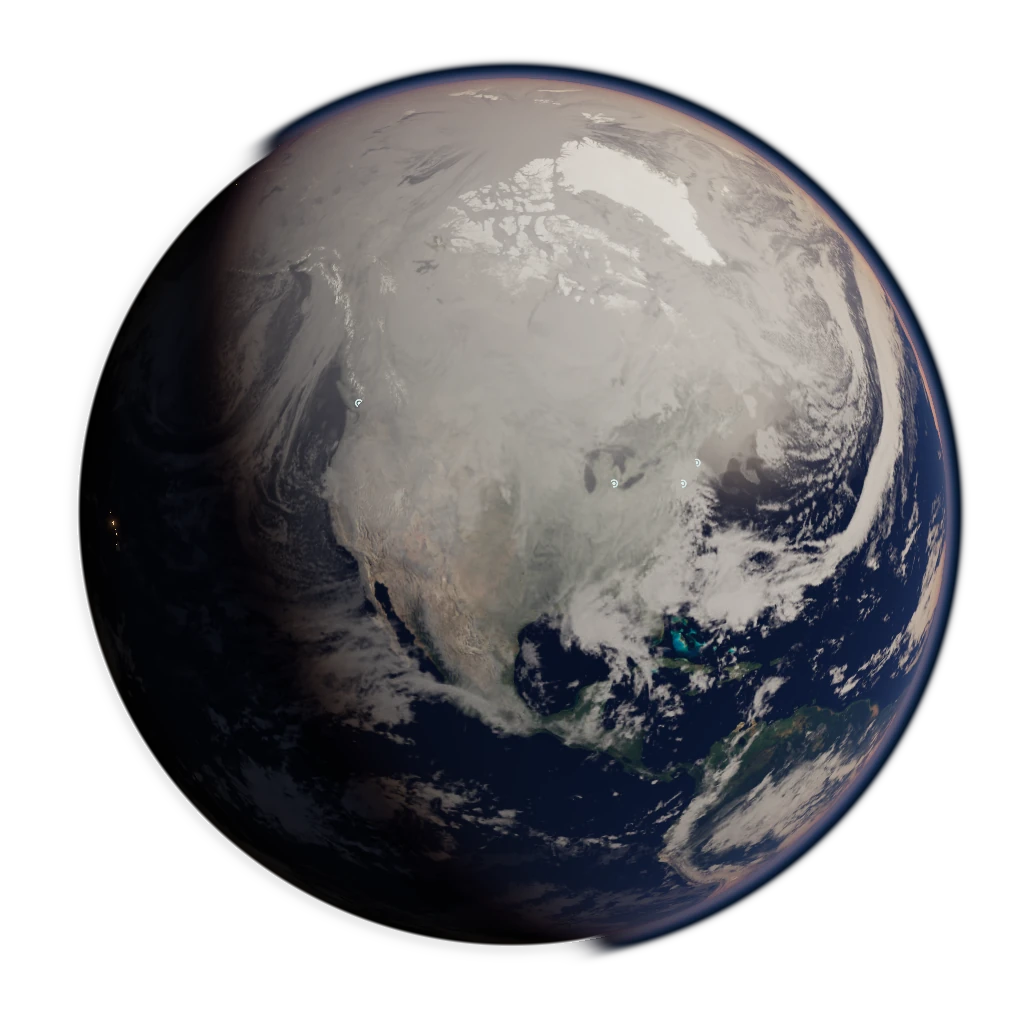
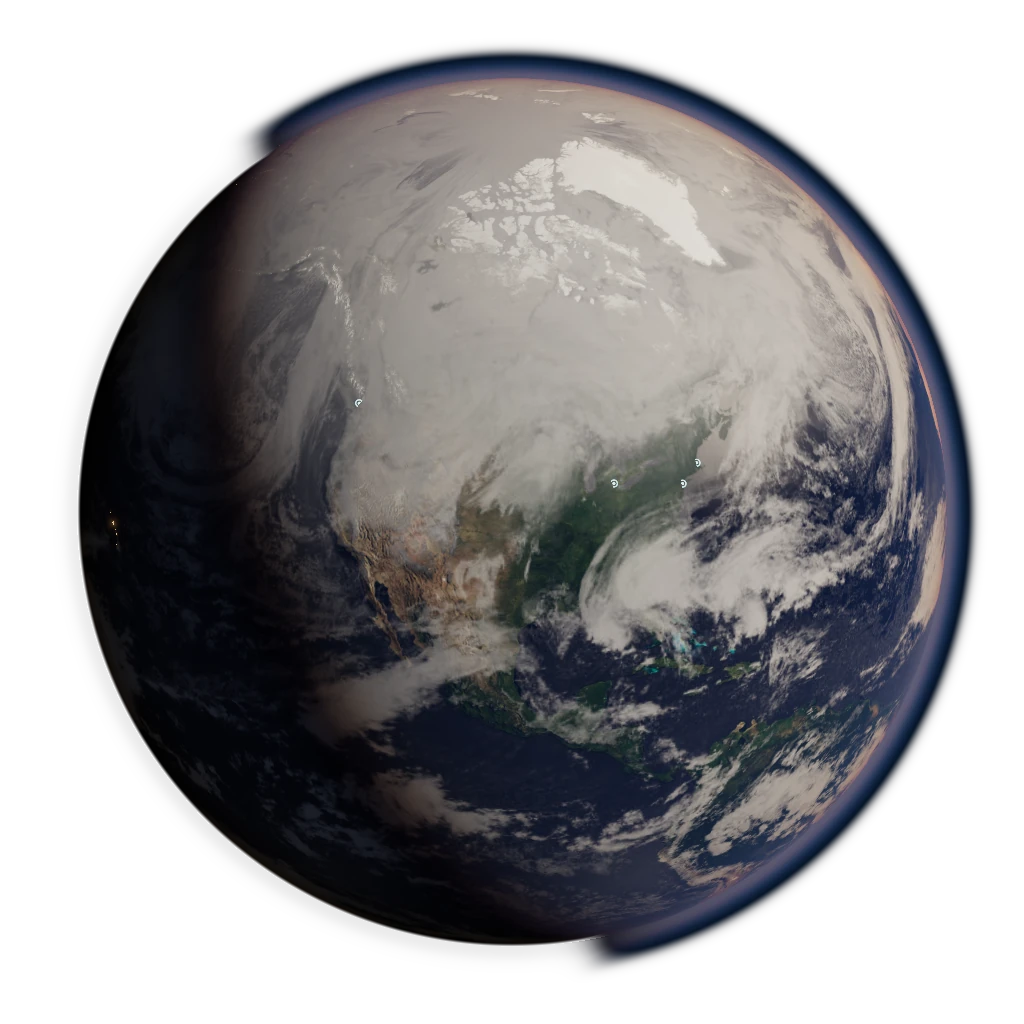
Diffuse city lights through clouds and widen the atmospheric limb

diff --git a/src/earth/clouds.ts b/src/earth/clouds.ts
@@ -11,6 +11,10 @@ export const cloudCoverageGLSL = `
   }
   float cloudOpacity(float density) {
     return 0.72 * pow(max(density - 0.025, 0.0), 2.2);
+  }
+  float nightCloudOpacity(float opacity) {
+    // A bright direct lamp loses contrast faster than the softly lit cloud.
+    return 1.0 - pow(1.0 - opacity, 2.15);
   }`
 
 export type CloudSource = 'loading' | 'live' | 'snapshot' | 'unavailable'
@@ -53,9 +57,19 @@ export function createClouds(geometry: BufferGeometry, sunDirection: Vector3, ni
           (0.055 * smoothstep(-0.09, 0.12, sun) + 0.90 * max(sun, 0.0));
         // Cloud coverage modulates both moonlit tops and the light returned
         // by low clouds over a city. Clear ocean receives no city contribution.
-        color += nightExposure(sun) * (vec3(0.032, 0.041, 0.073) * moonIllumination(n)
+        float darkness = nightExposure(sun);
+        float coverage = cloudOpacity(density);
+        color += darkness * (vec3(0.032, 0.041, 0.073) * moonIllumination(n)
           + vec3(0.16, 0.10, 0.060) * urbanHaze(nightMap, cloudUV(n)));
-        gl_FragColor = vec4(color, cloudOpacity(density));
+        if (darkness * coverage > 0.0) {
+          // Sample a wider geographic footprint for thicker clouds. The same
+          // satellite emission field illuminates the cloud deck in both panes.
+          float baseLod = log2(float(textureSize(nightMap, 0).x) / 2048.0);
+          float blurLod = max(baseLod + 0.8 + 3.0 * coverage, 0.0);
+          float flux = textureLod(nightMap, cloudUV(n), blurLod).r;
+          color += vec3(0.75, 0.47, 0.22) * flux * darkness;
+        }
+        gl_FragColor = vec4(color, mix(coverage, nightCloudOpacity(coverage), darkness));
       }`
   })
   const mesh = new Mesh(geometry, material)
@@ -65,7 +79,6 @@ export function createClouds(geometry: BufferGeometry, sunDirection: Vector3, ni
   const interval = 3 * 60 * 60 * 1000
   let enabled = true, disposed = false, pending = false, hasLive = false
   let lastAttempt = -Infinity
-  let lastWidth = 0
   let refreshTimer = 0
 
   function updateVisibility() {
@@ -86,18 +99,16 @@ export function createClouds(geometry: BufferGeometry, sunDirection: Vector3, ni
     updateVisibility()
   }
 
-  function refresh(diameter: number) {
-    const width = diameter >= 550 ? 2048 : 1024
-    if (!enabled || pending || disposed || (width <= lastWidth && Date.now() - lastAttempt < interval)) return
-    if (lastWidth === 0) {
+  function refresh() {
+    if (!enabled || pending || disposed || Date.now() - lastAttempt < interval) return
+    if (lastAttempt === -Infinity) {
       loader.load('/earth/data/clouds-snapshot.webp', texture => install(texture, 'snapshot'), undefined, () => {})
     }
     pending = true
-    lastWidth = width
     lastAttempt = Date.now()
     window.clearTimeout(refreshTimer)
     refreshTimer = window.setTimeout(invalidate, interval + 100)
-    loader.load(`https://clouds.matteason.co.uk/images/${width}x${width / 2}/clouds.jpg`, texture => {
+    loader.load('https://clouds.matteason.co.uk/images/2048x1024/clouds.jpg', texture => {
       pending = false
       install(texture, 'live')
     }, undefined, () => {

diff --git a/src/earth/city-bloom.ts b/src/earth/city-bloom.ts
@@ -76,14 +76,16 @@ export class CityBloomPass extends Pass {
           float radiusPx = lamp.diameter * 0.25 * sourceSize.y * projectionMatrix[1][1] / clip.w;
           // Conserve projected area while filtering lights smaller than a pixel.
           // The Gaussian integral is 2*pi*sigma²; the lamp disc area is pi*r².
-          float sigma = max(0.72, radiusPx * 0.5);
-          energy = lamp.color * transmission(lamp.viewCos) * (0.5 * radiusPx*radiusPx / (sigma*sigma));
+          float cover = 0.0;
           if (cloudStrength > 0.0) {
             vec3 view = normalize(cameraPosition - lampCenter);
             vec3 shell = lampCenter + view * (8500.0 / max(lamp.viewCos, 0.08));
             vec3 normal = normalize(shell * vec3(1.0, 1.0, 1.0067395));
-            energy *= 1.0 - cloudOpacity(textureLod(cloudMap, cloudUV(normal), 0.0).r);
+            cover = cloudOpacity(textureLod(cloudMap, cloudUV(normal), 0.0).r);
           }
+          float sigma = max(0.72, radiusPx * 0.5) * (1.0 + 3.0 * cover);
+          float transmittedArea = (1.0 - nightCloudOpacity(cover)) * radiusPx * radiusPx;
+          energy = lamp.color * transmission(lamp.viewCos) * (0.5 * transmittedArea / (sigma * sigma));
           footprint = position.xy * 3.0;
           clip.xy += footprint * (2.0 * sigma / sourceSize) * clip.w;
           gl_Position = clip;

diff --git a/src/earth/index.ts b/src/earth/index.ts
@@ -207,7 +207,7 @@ export async function createEarth(canvas: HTMLCanvasElement, options: EarthOptio
         canvas.dataset.earthReady = 'true'
         options.onReady()
       }
-      clouds.refresh(0.85 * Math.min(pane, h) * dpr)
+      clouds.refresh()
       if ((startProgress !== targetProgress && t < 1) || (cubeReadyAt !== Infinity && surface.uniforms.cubeMix.value < 1)) invalidate()
     } catch (error) {
       console.error('Earth rendering failed.', error)

diff --git a/src/earth/atmosphere.ts b/src/earth/atmosphere.ts
@@ -2,7 +2,7 @@ import { moonDirectionGLSL } from './night-lighting'
 import { AerialPerspectiveEffect } from '@takram/three-atmosphere'
 import { Uniform, type Camera } from 'three'
 
-const wideScale = 6
+const wideScale = 10
 
 export class EarthAtmosphere extends AerialPerspectiveEffect {
   private readonly limbScale = new Uniform(wideScale)

diff --git a/README.md b/README.md
@@ -8,9 +8,9 @@ Use Node.js 22 or newer. Run `npm ci` and `npm run dev`. The Earth controls are 
 
 ## Imagery
 
-The browser requests a small global day map, city lights, packed relief and ocean coverage, and locally hosted atmospheric scattering tables. After the first frame, day imagery refines to a six-face cube projected from a 21,600 × 10,800 source. The drawn globe size selects 1024- or 2048-pixel faces, with sharper night and relief maps for larger globes. Clouds use a separate 8.5 km shell lit by the shared sun. After the first frame the renderer loads a small bundled snapshot and requests Matt Eason’s latest 1024- or 2048-pixel cloud coverage. A visible tab checks again after three hours. The lab’s Clouds control applies to both globes. Contains modified EUMETSAT data. [Live Cloud Maps](https://github.com/matteason/live-cloud-maps)
+The browser requests a small global day map, city lights, packed relief and ocean coverage, and locally hosted atmospheric scattering tables. After the first frame, day imagery refines to a six-face cube projected from a 21,600 × 10,800 source. The drawn globe size selects 1024- or 2048-pixel faces, with sharper night and relief maps for larger globes. Clouds use a separate 8.5 km shell lit by the shared sun. After the first frame the renderer loads a small bundled snapshot and requests the same 2048-pixel cloud map from Matt Eason on every screen size. A visible tab checks again after three hours. The lab’s Clouds control applies to both globes. Contains modified EUMETSAT data. [Live Cloud Maps](https://github.com/matteason/live-cloud-maps)
 
-Wide atmosphere exaggerates the apparent altitude above the horizon sixfold using Takram’s scattering tables. Switching it off restores physical thickness. The lab keeps an artistic moon fixed over the North Pacific during sun sweeps. Its light reveals terrain and cloud tops and scatters along the night horizon. A coarse mip of the night map supplies localized city skyglow in the air and clouds. A hue adjustment on scattered light reduces violet at the daylight horizon.
+Wide atmosphere exaggerates the apparent altitude above the horizon tenfold using Takram’s scattering tables. Switching it off restores physical thickness. The lab keeps an artistic moon fixed over the North Pacific during sun sweeps. Its light reveals terrain and cloud tops and scatters along the night horizon. A coarse mip of the night map supplies localized city skyglow in the air and clouds. A hue adjustment on scattered light reduces violet at the daylight horizon.
 
 The renderer redraws on demand. With WebGL unavailable, the two controls switch between matching static views.
 
@@ -20,7 +20,7 @@ To rebuild the Earth surface maps, install NumPy, Pillow and Rasterio in a Pytho
 
 ## Rendering references
 
-Sebastian Lague’s *Geographical Adventures* pairs concentrated city lights with a softer glow across populated terrain. The lab’s left globe uses a satellite emission texture. The right uses Lague’s shipped light positions, brightness, and dusk variation on small instanced meshes. Both renders share the ground glow, camera, sunlight, scattering, and tone mapping. In Crescent, switch off Point bloom and toggle Terrain glow to see the land brighten around the Great Lakes. Both globes sample coarse night-map mips at global widths of 512 and 256 pixels and tint the ground using its grayscale albedo and land mask. Point bloom independently blurs the visible lamps on the right before the glass and tone-mapping passes. The point dataset is requested only in the lab. The city shader uses a fixed geographic variation in its twilight threshold so the dawn transition is stable when the camera moves.
+Sebastian Lague’s *Geographical Adventures* pairs concentrated city lights with a softer glow across populated terrain. The lab’s left globe uses a satellite emission texture. The right uses Lague’s shipped light positions, brightness, and dusk variation on small instanced meshes. Both renders share the ground glow, camera, sunlight, scattering, and tone mapping. In Crescent, switch off Point bloom and toggle Terrain glow to see the land brighten around the Great Lakes. Both globes sample coarse night-map mips at global widths of 512 and 256 pixels and tint the ground using its grayscale albedo and land mask. Thicker cloud cover suppresses sharp city cores, spreads the lamp bloom and picks up a softer satellite-texture glow in both panes. Point bloom independently blurs the visible lamps on the right before the glass and tone-mapping passes. The point dataset is requested only in the lab. The city shader uses a fixed geographic variation in its twilight threshold so the dawn transition is stable when the camera moves.
 
 - [Creating city lights, episode 2](https://youtu.be/UXD97l7ZT0w?t=532) and [separating sky from depth-dependent haze](https://youtu.be/UXD97l7ZT0w?t=1802)
 - [City clustering and low-resolution terrain glow, episode 3](https://youtu.be/pNp4ug5F6To?t=795)
